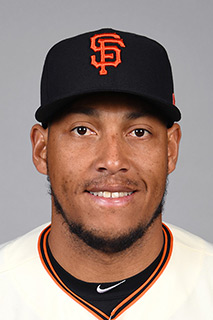
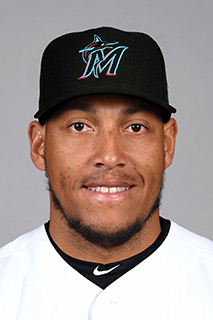
Actualizacion de Transacciones

diff --git a/src/app/components/players/transacciones/transacciones.component.html b/src/app/components/players/transacciones/transacciones.component.html
@@ -5,6 +5,22 @@
 
 <div class="container-flex">
     <div class="card text-white colorContainer mb-3 mx-auto my-4" style="max-width: 18rem;">
+        <div class="card-header"><img class="img-player" src="../../../../assets/500208.jpg" alt="Yangervis Solarte">  Yangervis Solarte</div>
+        <div class="card-body">
+          <h5 class="card-title">San Francisco Giants</h5>
+          <p class="card-text">  Designado para asignación, 13 de junio de 2019.</p>
+        </div>
+      </div>
+
+    <div class="card text-white colorContainer mb-3 mx-auto my-4" style="max-width: 18rem;">
+        <div class="card-header"  style="font-size: .9em;"><img class="img-player" src="../../../../assets/622682.jpg" alt="Victor Reyes">Víctor Reyes</div>
+        <div class="card-body">
+          <h5 class="card-title">Detroit Tigers</h5>
+          <p class="card-text">Llamado al Equipo Mayor desde  Toledo Mud Hens, 13 de junio de 2019.</p>
+            </div>
+            </div>
+  
+    <div class="card text-white colorContainer mb-3 mx-auto my-4" style="max-width: 18rem;">
         <div class="card-header"><img class="img-player" src="../../../../assets/591693.jpg" alt=" Edubray Ramos">   Edubray Ramos</div>
         <div class="card-body">
           <h5 class="card-title"> Philadelphia Phillies</h5>
@@ -538,7 +554,7 @@
         </div>
       </div>
     <div class="card text-white colorContainer mb-3 mx-auto my-4" style="max-width: 18rem;">
-        <div class="card-header"><img class="img-player" src="../../../../assets/500208.jpg" alt="Yangervis Solarte">  Yangervis Solarte</div>
+        <div class="card-header"><img class="img-player" src="../../../../assets/500208D.jpg" alt="Yangervis Solarte">  Yangervis Solarte</div>
         <div class="card-body">
           <h5 class="card-title">San Francisco Giants</h5>
           <p class="card-text">  Designado para asignación, el 07 de mayo de 2019.</p>
